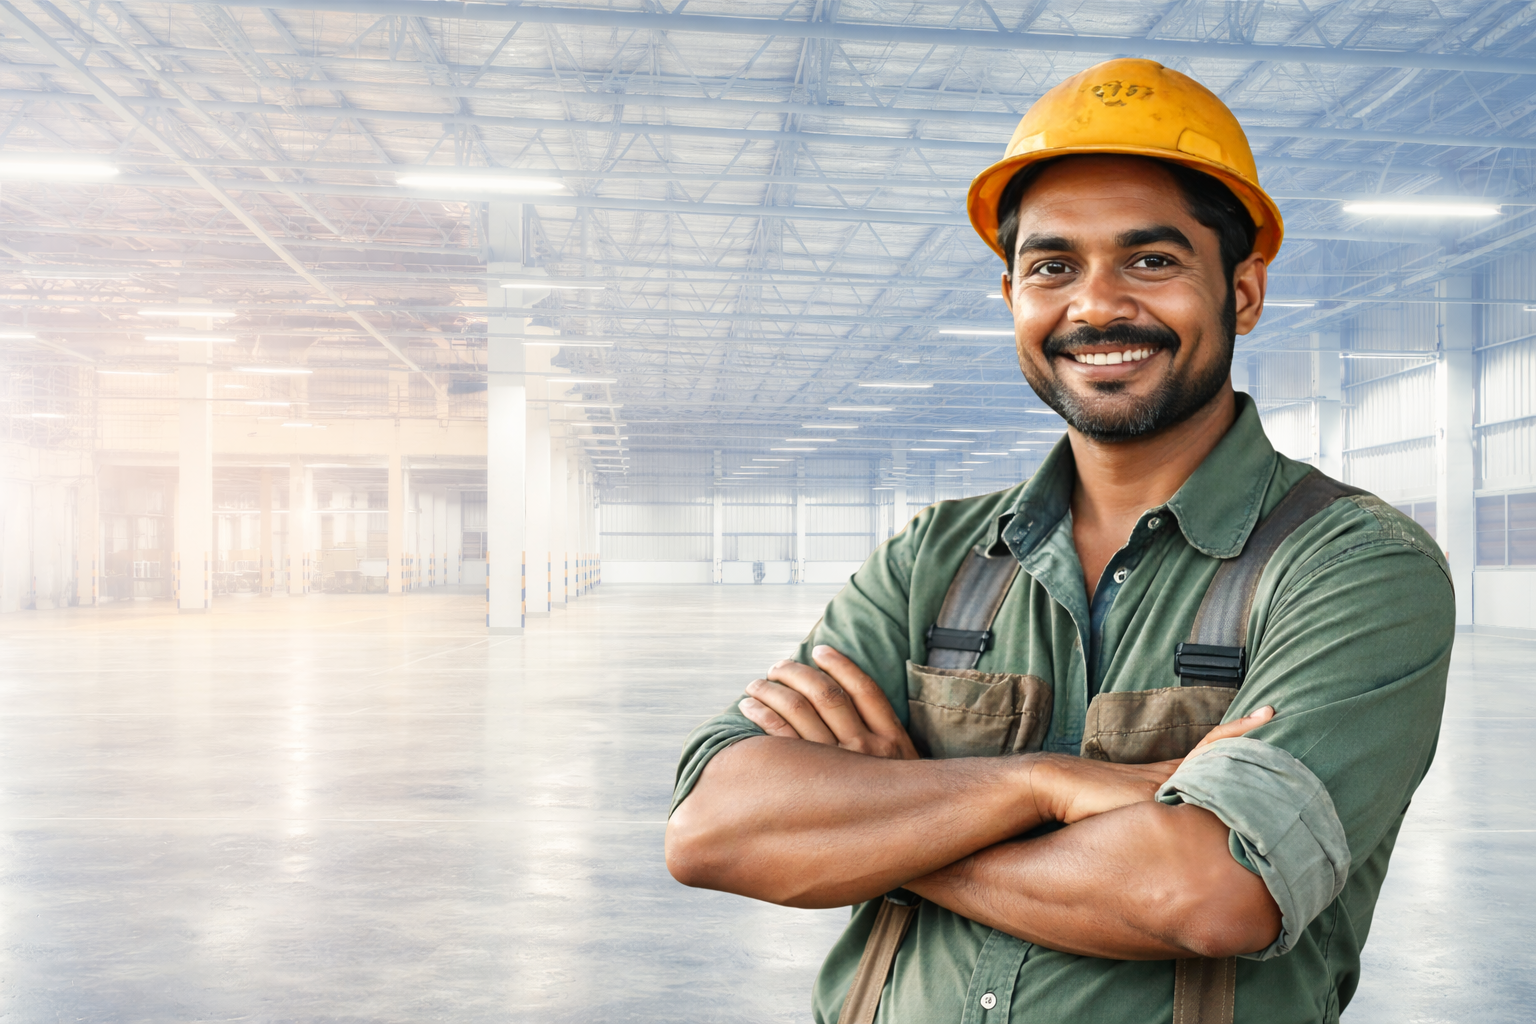
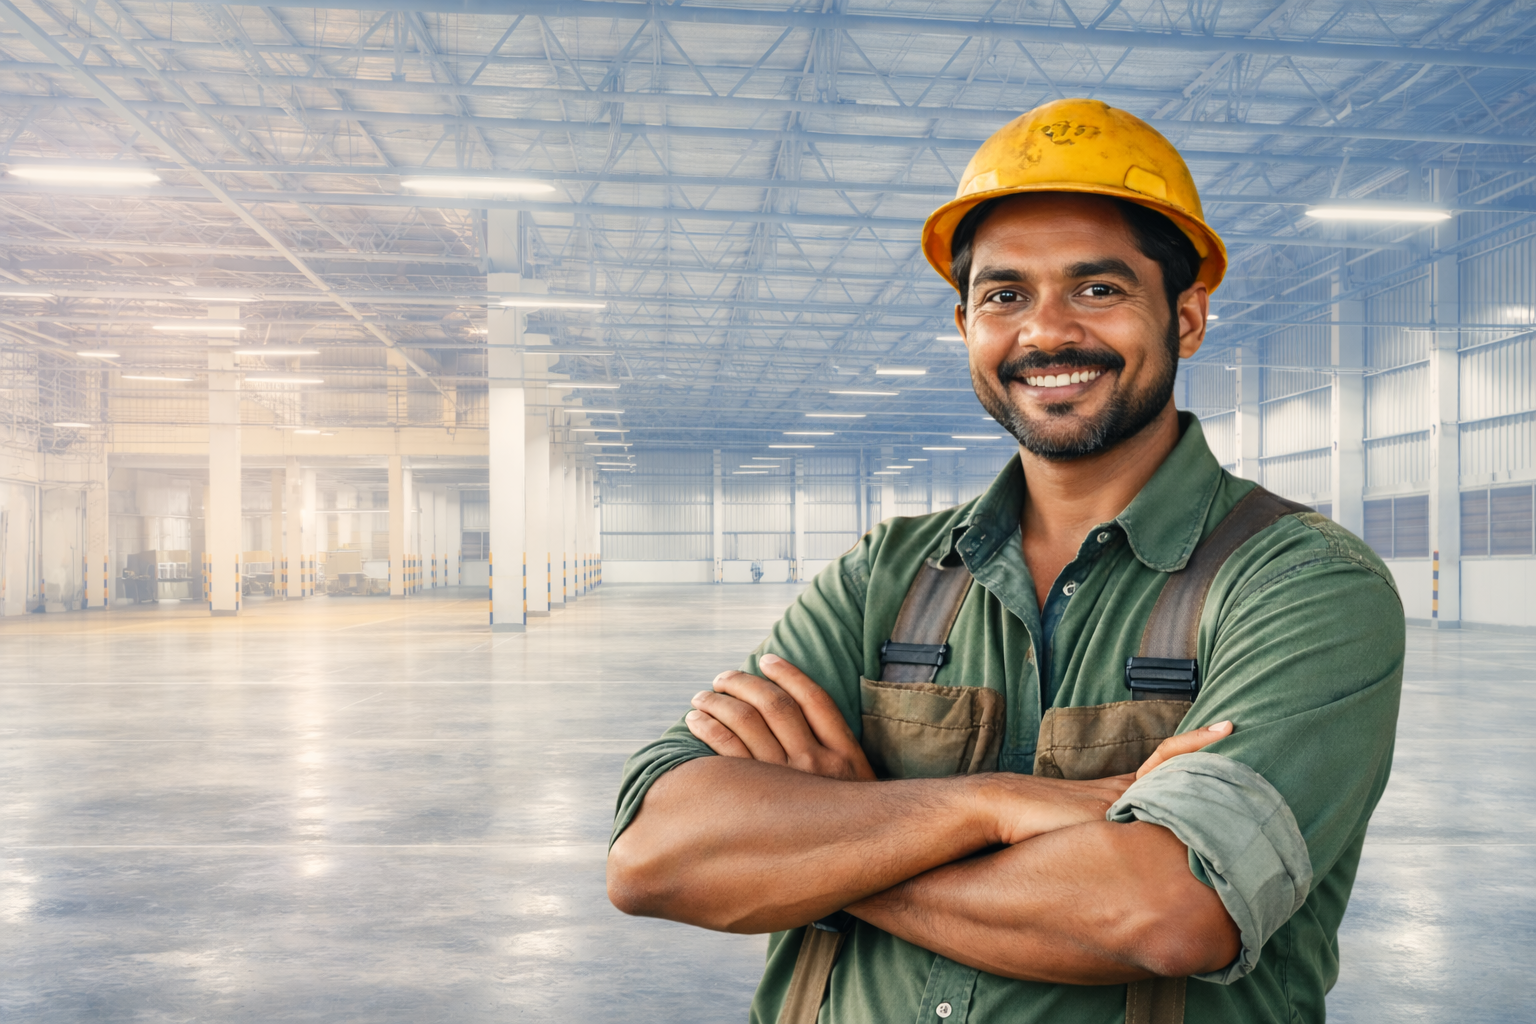
mv29

diff --git a/home2.html b/home2.html
@@ -477,7 +477,7 @@
                     <div class="rev_slider fullscreenbanner" data-version="5.2.6" id="rev_slider_3_1">
                         <ul>
                             <li data-description="" data-easein="default,default,default,default" data-easeout="default,default,default,default" data-hideafterloop="0" data-hideslideonmobile="off" data-index="rs-7" data-masterspeed="default,default,default,default" data-param1="" data-param10="" data-param2="" data-param3="" data-param4="" data-param5="" data-param6="" data-param7="" data-param8="" data-param9="" data-rotate="0,0,0,0" data-saveperformance="off" data-slotamount="default,default,default,default" data-thumb="images/1920x1079-100x50.jpg" data-title="Slide" data-transition="slidingoverlayup,slidingoverlaydown,slidingoverlayright,slidingoverlayleft">
-                                <img alt="" class="rev-slidebg" data-bgfit="cover" data-bgposition="center center" data-bgrepeat="no-repeat" data-no-retina="" src="images/home.png" >
+                                <img alt="" class="rev-slidebg" data-bgfit="cover" data-bgposition="center center" data-bgrepeat="no-repeat" data-no-retina="" src="images/HOME.png" >
                                 <div class="tp-caption trx-big-dark tp-resizeme" data-end="8700" data-height="['auto']" data-responsive_offset="on" data-splitin="none" data-splitout="none" data-start="900" data-transform_idle="o:1;" data-transform_in="opacity:0;s:800;e:Power2.easeInOut;" data-transform_out="opacity:0;s:600;" data-voffset="-40" data-width="['auto']" data-x="50" data-y="center" id="slide-7-layer-1">
                                     Turn Compliance Challenges<br>
                                      into Automated CLMS
@@ -493,7 +493,7 @@
                                  </div>
                             </li>
                             <li data-description="" data-easein="default,default,default,default" data-easeout="default,default,default,default" data-hideafterloop="0" data-hideslideonmobile="off" data-index="rs-10" data-masterspeed="default,default,default,default" data-param1="" data-param10="" data-param2="" data-param3="" data-param4="" data-param5="" data-param6="" data-param7="" data-param8="" data-param9="" data-rotate="0,0,0,0" data-saveperformance="off" data-slotamount="default,default,default,default" data-thumb="images/1920x1079-100x50.jpg" data-title="Slide" data-transition="slidingoverlayup,slidingoverlaydown,slidingoverlayright,slidingoverlayleft">
-                                <img alt="" class="rev-slidebg" data-bgfit="cover" data-bgposition="center center" data-bgrepeat="no-repeat" data-no-retina="" src="images/home.png">
+                                <img alt="" class="rev-slidebg" data-bgfit="cover" data-bgposition="center center" data-bgrepeat="no-repeat" data-no-retina="" src="images/HOME.png">
                                 <div class="tp-caption trx-big-dark tp-resizeme" data-end="8700" data-height="['auto']" data-responsive_offset="on" data-splitin="none" data-splitout="none" data-start="900" data-transform_idle="o:1;" data-transform_in="opacity:0;s:800;e:Power2.easeInOut;" data-transform_out="opacity:0;s:600;" data-voffset="-40" data-width="['auto']" data-x="50" data-y="center" id="slide-10-layer-1">
                                    Smart Workforce<br>
                                     Management Solutions
@@ -509,7 +509,7 @@
                                 </div>
                             </li>
                             <li data-description="" data-easein="default,default,default,default" data-easeout="default,default,default,default" data-hideafterloop="0" data-hideslideonmobile="off" data-index="rs-11" data-masterspeed="default,default,default,default" data-param1="" data-param10="" data-param2="" data-param3="" data-param4="" data-param5="" data-param6="" data-param7="" data-param8="" data-param9="" data-rotate="0,0,0,0" data-saveperformance="off" data-slotamount="default,default,default,default" data-thumb="images/1920x1079-100x50.jpg" data-title="Slide" data-transition="slidingoverlayup,slidingoverlaydown,slidingoverlayright,slidingoverlayleft">
-                                <img alt="" class="rev-slidebg" data-bgfit="cover" data-bgposition="center center" data-bgrepeat="no-repeat" data-no-retina="" src="images/home.png">
+                                <img alt="" class="rev-slidebg" data-bgfit="cover" data-bgposition="center center" data-bgrepeat="no-repeat" data-no-retina="" src="images/HOME.png">
                                 <div class="tp-caption trx-big-dark tp-resizeme" data-end="8700" data-height="['auto']" data-hoffset="72" data-responsive_offset="on" data-splitin="none" data-splitout="none" data-start="900" data-transform_idle="o:1;" data-transform_in="opacity:0;s:800;e:Power2.easeInOut;" data-transform_out="opacity:0;s:600;" data-voffset="-40" data-width="['auto']" data-x="50" data-y="center" id="slide-11-layer-1">
                                     Complete Compliance<br>
                                     Monitoring & Reporting

diff --git a/css/style.css b/css/style.css
@@ -9328,3 +9328,30 @@ body {
 }
 
 
+/* =====================================================
+   MOBILE HERO IMAGE FIX (REVOLUTION SLIDER ONLY)
+   ===================================================== */
+
+@media (max-width: 768px) {
+
+    /* reduce hero height slightly on mobile */
+    .rev_slider_wrapper,
+    .rev_slider,
+    .rev_slider > ul,
+    .rev_slider > ul > li {
+        height: 85vh !important;
+    }
+
+    /* target actual background layer */
+    .rev_slider .tp-bgimg.defaultimg {
+
+        background-size: contain !important;
+        /* shows more of image (zoomed-out effect) */
+
+        background-position: center center !important;
+        /* keeps subject centered */
+
+        background-repeat: no-repeat !important;
+    }
+
+}
